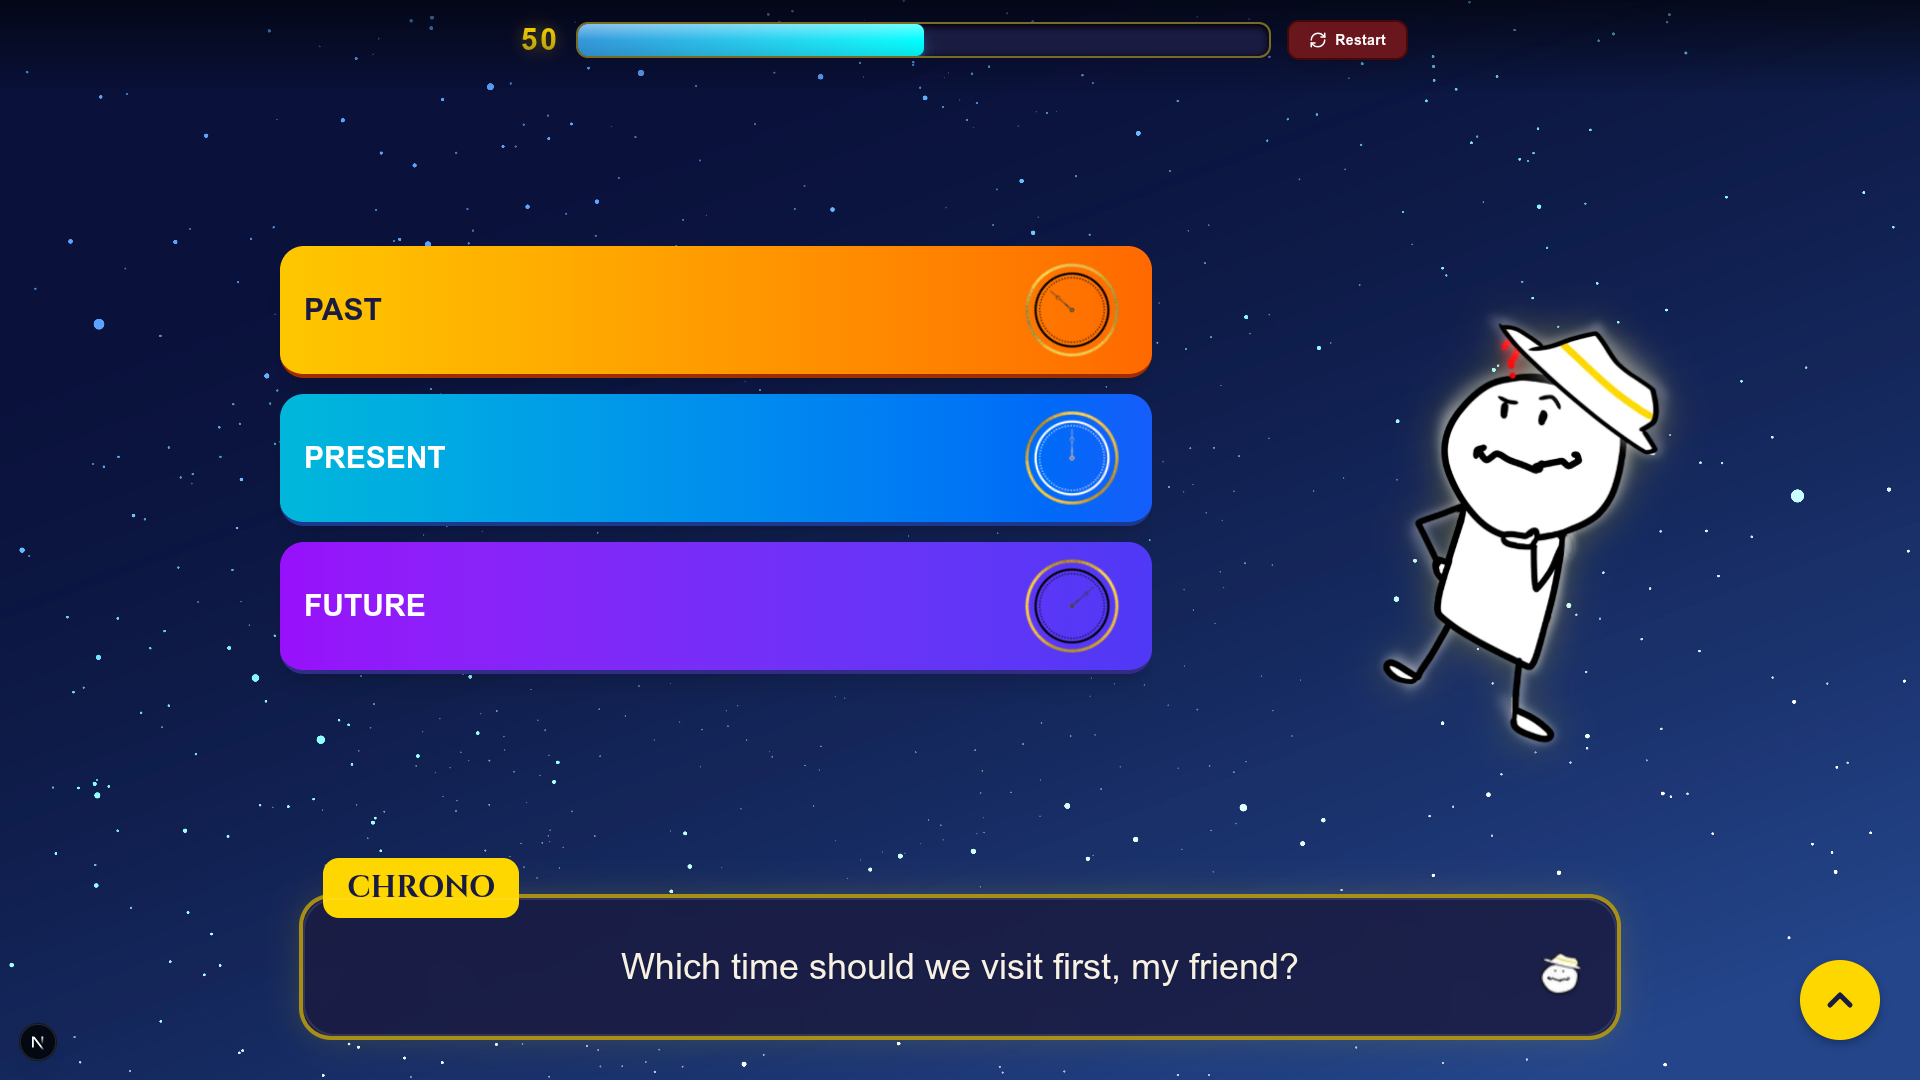
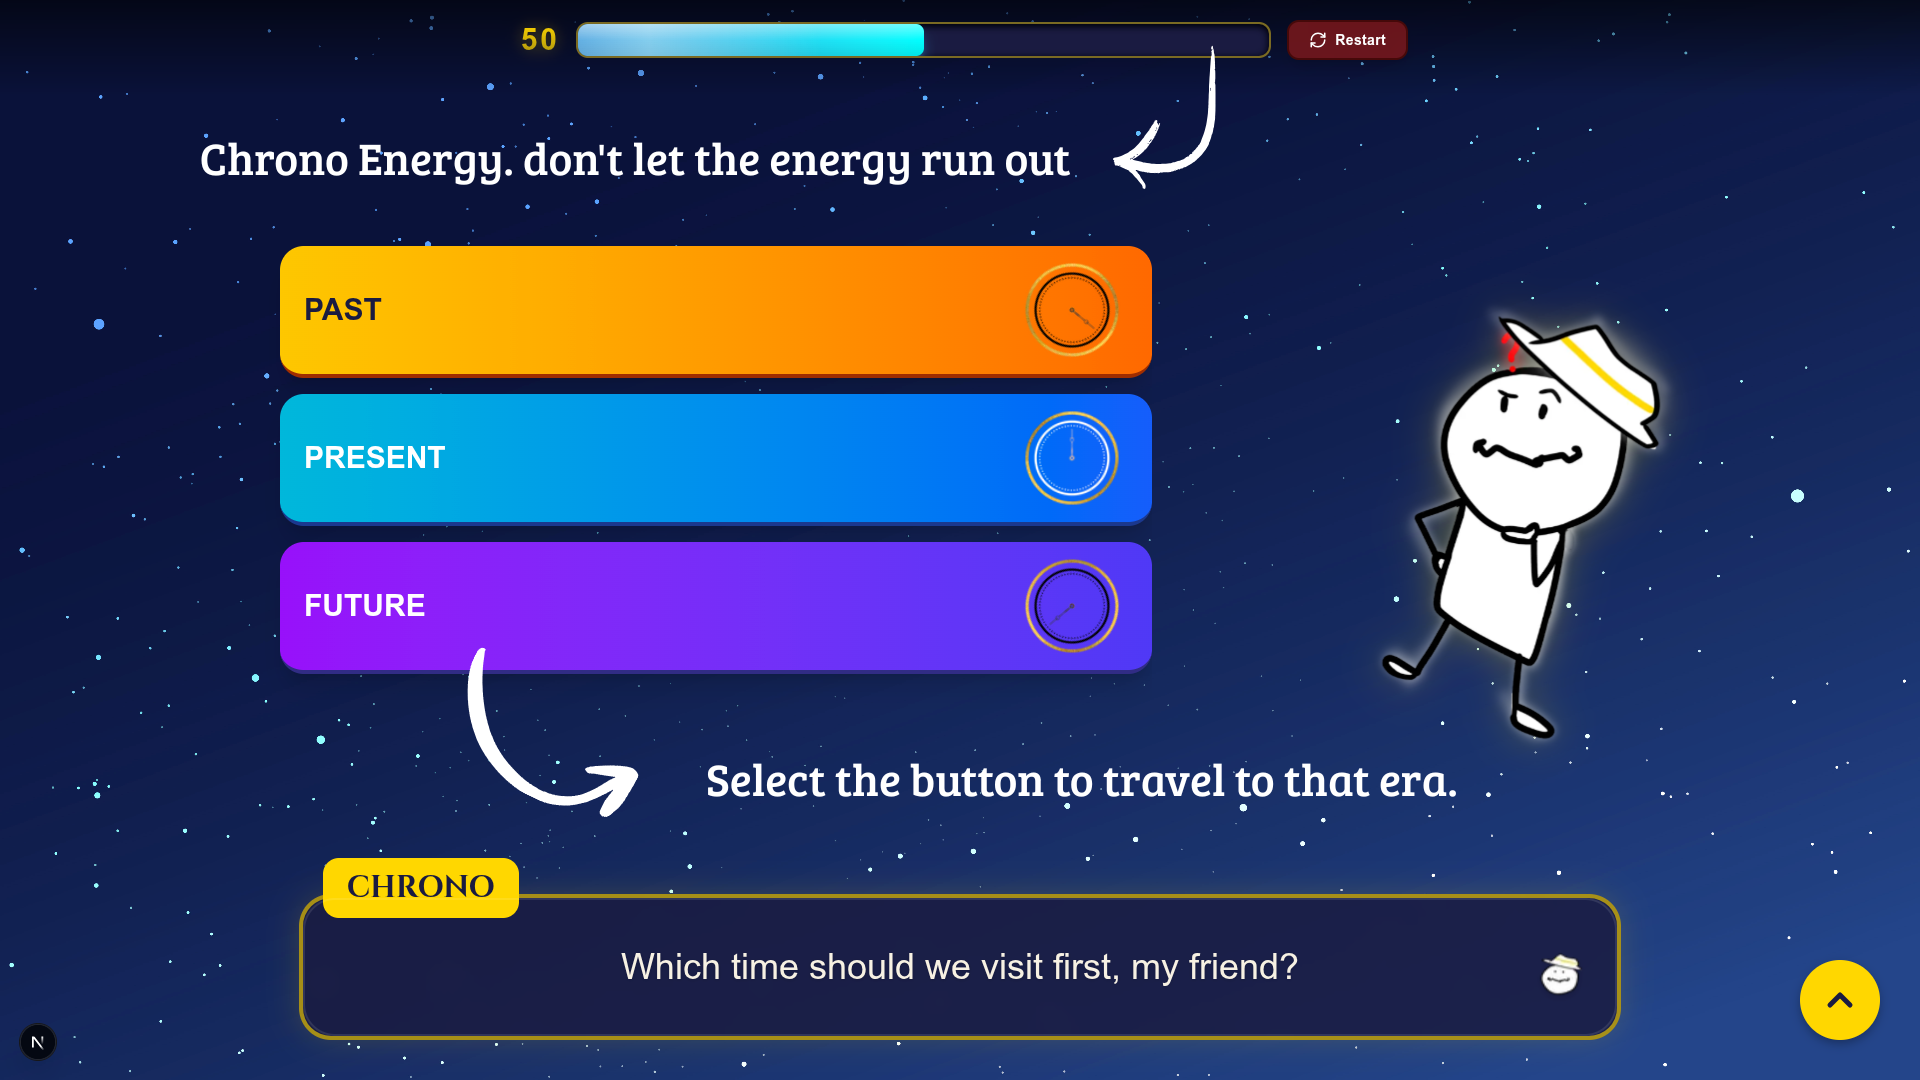
fix with  wifi polmed ngeleg

diff --git a/app/story/page.tsx b/app/story/page.tsx
@@ -16,9 +16,9 @@ const storyData = [
 ];
 
 const tutorialSlides = [
-  { mobile: "/tutorial/step1-mobile.png", tablet: "/tutorial/step1-tablet.png", desktop: "/tutorial/step1-desktop.png" },
-  { mobile: "/tutorial/step2-mobile.png", tablet: "/tutorial/step2-tablet.png", desktop: "/tutorial/step2-desktop.png" },
-  { mobile: "/tutorial/step3-mobile.png", tablet: "/tutorial/step3-tablet.png", desktop: "/tutorial/step3-desktop.png" },
+  { mobile: "/tutorial/step1-mobile.png", tablet: "/tutorial/step1-desktop.png", desktop: "/tutorial/step1-desktop.png" },
+  { mobile: "/tutorial/step2-mobile.png", tablet: "/tutorial/step2-desktop.png", desktop: "/tutorial/step2-desktop.png" },
+  { mobile: "/tutorial/step3-mobile.png", tablet: "/tutorial/step3-desktop.png", desktop: "/tutorial/step3-desktop.png" },
 ];
 
 export default function StoryPage() {
@@ -49,6 +49,7 @@ export default function StoryPage() {
           setIsFading(false);
         }, 300);
       } else {
+        playSfx('flip');
         setFase("tutorial");
       }
     }
@@ -86,7 +87,7 @@ export default function StoryPage() {
       {/* SKIP BUTTON (Diluar wadah fase agar selalu di atas & tidak ikut geser) */}
       <button
         onClick={() => router.push("/game")}
-        className="z-[70] absolute top-8 right-8 text-white/50 hover:text-white font-mono tracking-widest items-center flex transition-colors duration-300"
+        className="hidden md:block z-[70] absolute top-8 right-8 text-white/50 hover:text-white font-mono tracking-widest items-center flex transition-colors duration-300"
       >
         SKIP <SkipForward className="inline-block ml-1 size-10 xl:size-12" />
       </button>

diff --git a/components/view/result.tsx b/components/view/result.tsx
@@ -104,7 +104,7 @@ export default function Result({ poin, log, onRestart, onExit }: ResultProps) {
         <div className={`absolute inset-0 flex justify-center items-start p-2 transition-all duration-700 ease-in-out ${showChrono ? "translate-x-0 opacity-100" : "translate-x-full opacity-0 pointer-events-none"}`}>
           <div className="pointer-events-none select-none animate-breathe pb-4">
             <Image
-              src={isWin ? "/characters/chrono-horay.png" : "/characters/chrono-wrong.png"}
+              src={isWin ? "/characters/chrono-horay.png" : "/characters/chrono-correct.png"}
               alt="Chrono Expression"
               width={400}
               height={500}
